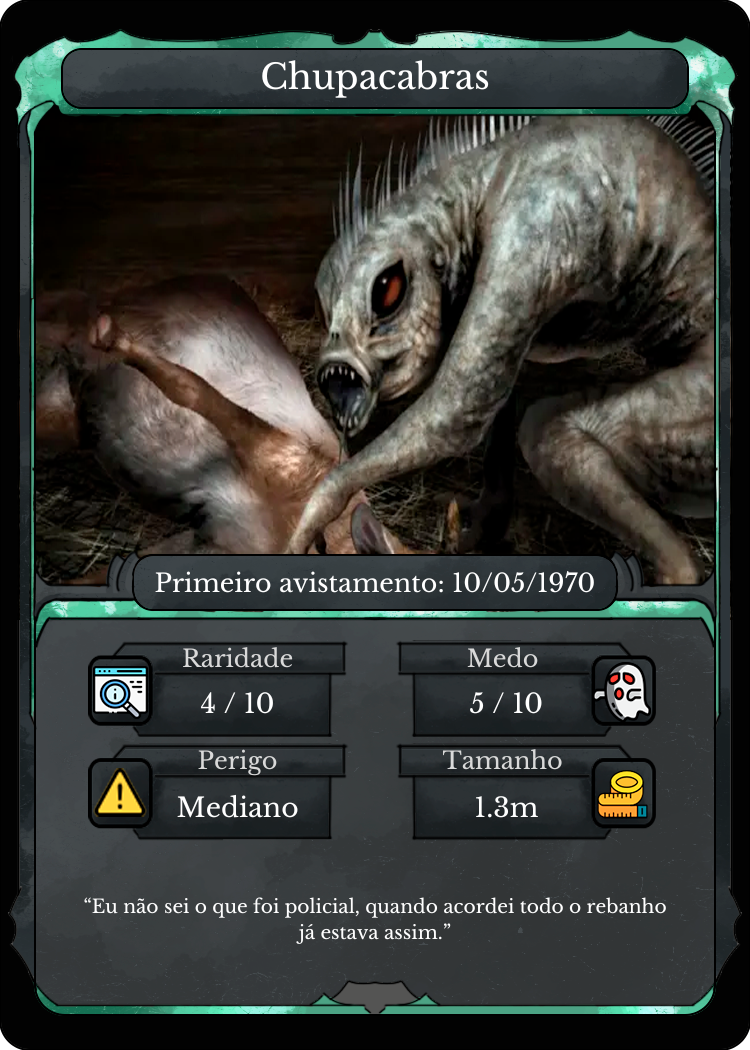
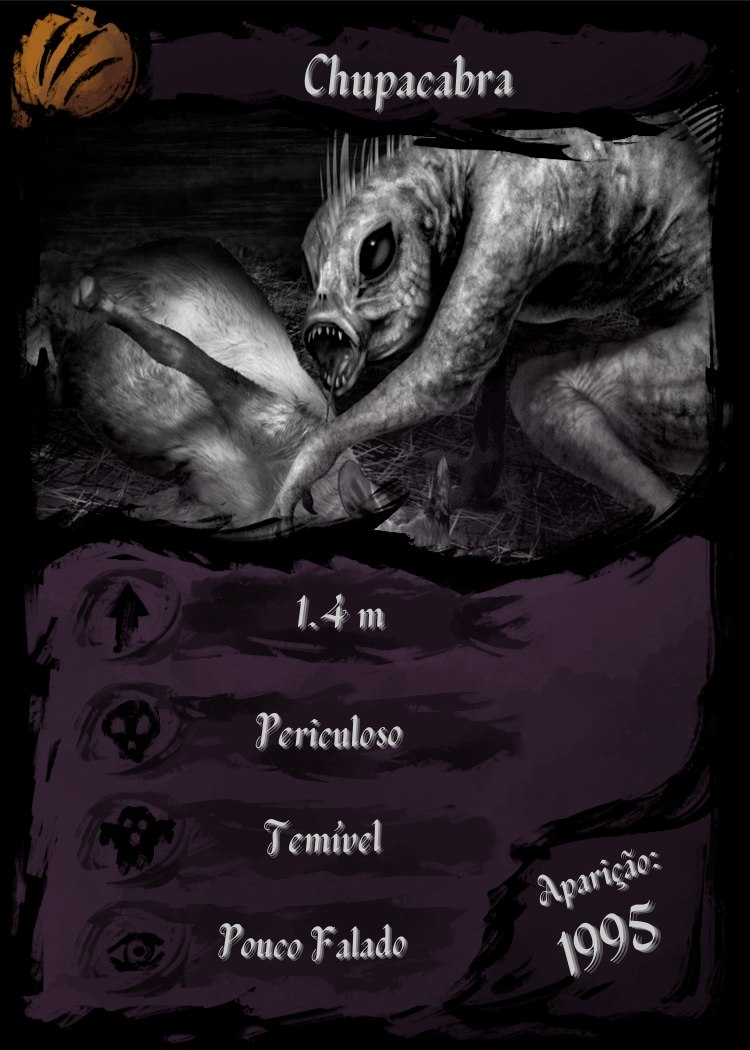
Novas cartas yeeey

diff --git a/client/files/front.py b/client/files/front.py
@@ -57,7 +57,9 @@ BOTTOM_Y = MAT_HEIGHT / 2 + BASE_MARGIN
 START_X = MAT_WIDTH / 2 + BASE_MARGIN
 # Card constants
 
-CARD_NAMES = ["bigfoot", "chupacabra", "mothman", "ness", "ufo"]
+CARD_NAMES = ["bigfoot", "chupacabra", "mothman", "ness", "ufo", "anunnaki", "ashtasheran", "bloop", "fairy", "gnome", 
+              "greys", "kraken", "mapinguari", "megalodon", "nightcrawler", "poltergeist", "reptilian", "siren", 
+              "skinwalker", "slenderman", "thunderbird", "vampire", "varginha", "wendigo", "werewolf", "witch", "yeti"]
 
 # The Y of the top row (4 piles)
 TOP_Y = SCREEN_HEIGHT - (MAT_HEIGHT / 2) - BASE_MARGIN
@@ -74,7 +76,7 @@ MIDDLE_SCREEN_Y = SCREEN_HEIGHT / 2
 TOP_Y_SHOWCASE = SCREEN_HEIGHT - (SHOWCASE_MAT_HEIGHT / 2) - BASE_MARGIN
 END_X = TOTAL_SCREEN_WIDTH - (SHOWCASE_MAT_WIDTH/2) - BASE_MARGIN
 
-FACE_DOWN_IMAGE = "/home/cards/cardback.png"
+FACE_DOWN_IMAGE = "/home/cards/backcard.png"
 
 class Card(arcade.Sprite):
     """ Card sprite """
@@ -128,7 +130,7 @@ class MyGame(arcade.Window):
         # Sprite list with all the cards, no matter what pile they are in.
         self.card_list = None
 
-        arcade.set_background_color(arcade.color.ARSENIC)
+        arcade.set_background_color(arcade.color.CHARLESTON_GREEN)
 
         # List of cards we are dragging with the mouse
         self.held_cards = None
@@ -165,7 +167,7 @@ class MyGame(arcade.Window):
         thread_receive = threading.Thread(target=self.receive_message, args=(s,))
         thread_receive.start()
 
-        data = {'player_name_register': player_name}
+        data = {'header': 'player_connection','player_name_register': player_name}
         data_str = json.dumps(data)
 
         try:
@@ -187,26 +189,26 @@ class MyGame(arcade.Window):
         self.pile_mat_list: arcade.SpriteList = arcade.SpriteList()
 
         # Create the mats for the bottom face down and face up piles
-        pile = arcade.SpriteSolidColor(MAT_WIDTH, MAT_HEIGHT, arcade.csscolor.DARK_SLATE_GREY)
+        pile = arcade.SpriteSolidColor(MAT_WIDTH, MAT_HEIGHT, arcade.color.CORDOVAN)
         pile.position = START_X, BOTTOM_Y
         self.pile_mat_list.append(pile)
 
-        #pile = arcade.SpriteSolidColor(MAT_WIDTH, MAT_HEIGHT, arcade.csscolor.DARK_OLIVE_GREEN)
+        #pile = arcade.SpriteSolidColor(MAT_WIDTH, MAT_HEIGHT, arcade.color.DARK_OLIVE_GREEN)
         #pile.position = START_X + X_SPACING, BOTTOM_Y
         #self.pile_mat_list.append(pile)
 
 
-        pile = arcade.SpriteSolidColor(MAT_WIDTH, MAT_HEIGHT, arcade.csscolor.DARK_SLATE_GREY)
+        pile = arcade.SpriteSolidColor(MAT_WIDTH, MAT_HEIGHT, arcade.color.CORDOVAN)
         pile.position = MIDDLE_SCREEN_X, MIDDLE_SCREEN_Y
         self.pile_mat_list.append(pile)
 
         # pilha segundo jogador
-        pile = arcade.SpriteSolidColor(MAT_WIDTH, MAT_HEIGHT, arcade.csscolor.DARK_SLATE_GREY)
+        pile = arcade.SpriteSolidColor(MAT_WIDTH, MAT_HEIGHT, arcade.color.CORDOVAN)
         pile.position = (MIDDLE_SCREEN_X/2), (MIDDLE_SCREEN_Y + 150)
         self.p2.mat = pile
 
         # pilha terceiro jogador
-        pile = arcade.SpriteSolidColor(MAT_WIDTH, MAT_HEIGHT, arcade.csscolor.DARK_SLATE_GREY)
+        pile = arcade.SpriteSolidColor(MAT_WIDTH, MAT_HEIGHT, arcade.color.CORDOVAN)
         pile.position = (MIDDLE_SCREEN_X/2)+MIDDLE_SCREEN_X, MIDDLE_SCREEN_Y + 150
         self.p3.mat = pile
 
@@ -404,7 +406,7 @@ class MyGame(arcade.Window):
 
     def send_message(self, client_socket):
         
-        data = {'player_name_register': self.p1.name}
+        data = {'header': 'player_connection','player_name_register': self.p1.name}
         data_str = json.dumps(data)
         
         try:
@@ -414,7 +416,7 @@ class MyGame(arcade.Window):
 
     def send_card(self, client_socket, card):
         
-        data = {'card': card, 'player_name': self.p1.name}
+        data = {'header': 'card_send', 'card': card, 'player_name': self.p1.name}
         data_str = json.dumps(data)
         
         try:

diff --git a/server/files/server.py b/server/files/server.py
@@ -14,7 +14,7 @@ class Server():
         try:
             for client in self.clients:
                 # temporary solution
-                # t.sleep(2)
+                t.sleep(2)
                 
                 if client['connection'] != sender:
                     client['connection'].sendall(bytes(json.dumps(data_dict), encoding="utf-8"))
